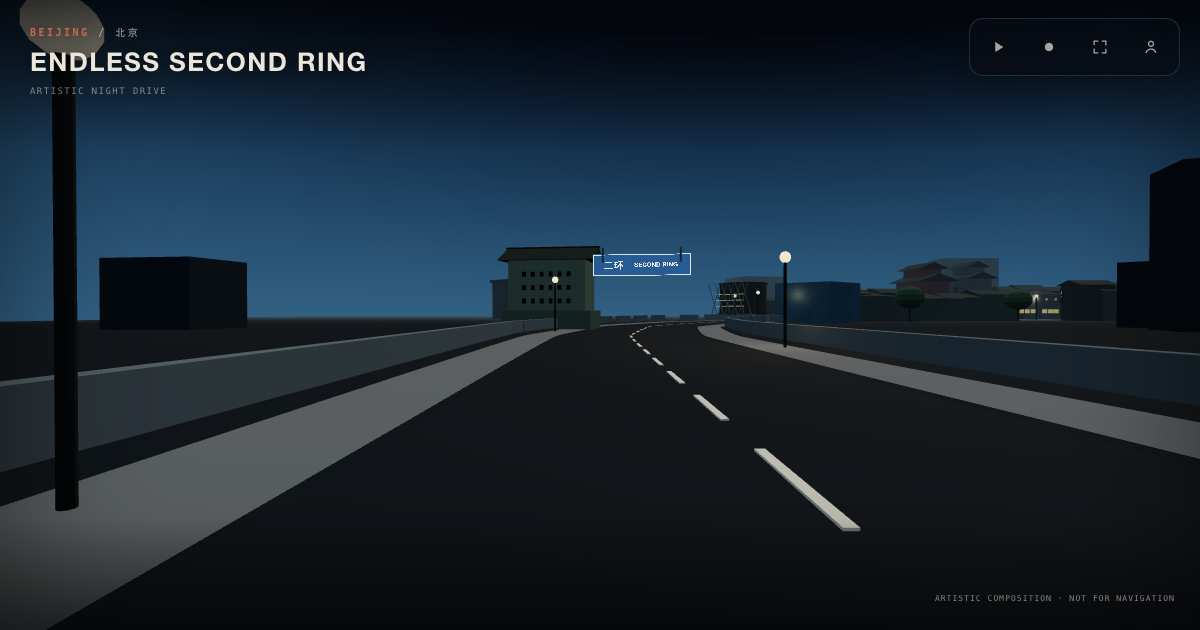
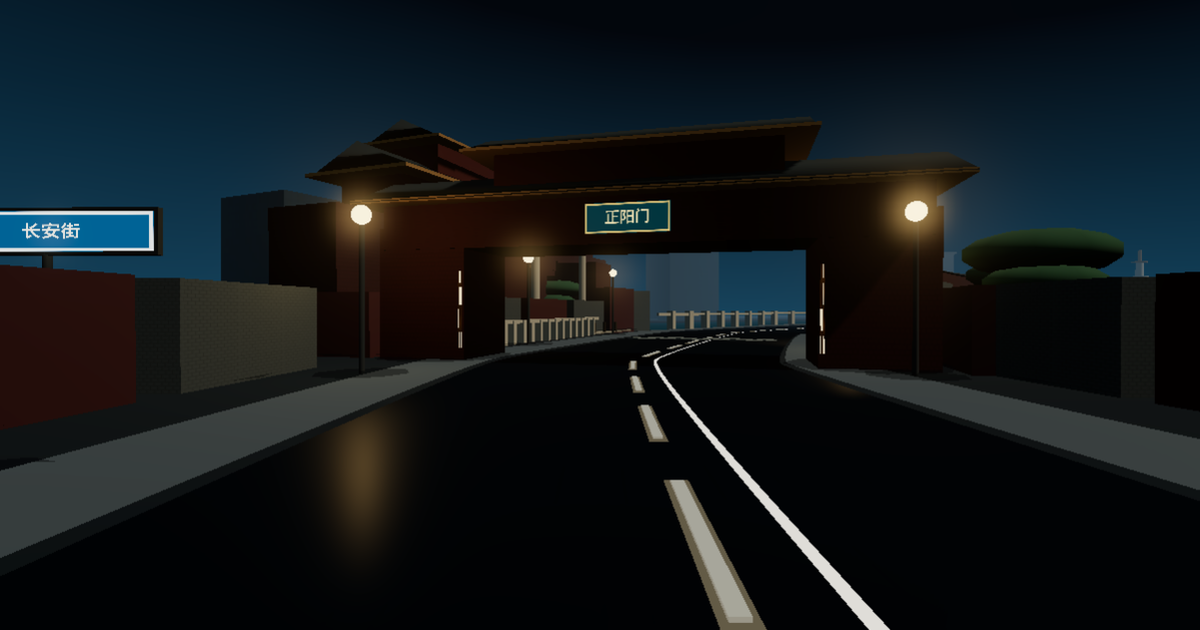
Make the page chrome readable without covering the film.
The work title leads, the loop number stays the eyebrow, and a one-line hint names the control under the pointer. Phones keep the navigation disclaimer beside the buttons. The vignette only shades the title, and the share image is the current gate.

diff --git a/src/styles/main.css b/src/styles/main.css
@@ -95,13 +95,11 @@ canvas {
 }
 
 .ui-root::before {
-  background:
-    linear-gradient(180deg, rgba(3, 5, 8, 0.72) 0, rgba(3, 5, 8, 0) 24%),
-    linear-gradient(0deg, rgba(3, 5, 8, 0.54) 0, rgba(3, 5, 8, 0) 18%);
+  background: linear-gradient(180deg, rgba(3, 5, 8, 0.55) 0, rgba(3, 5, 8, 0) 16%);
 }
 
 .ui-root::after {
-  box-shadow: inset 0 0 12vw rgba(0, 0, 0, 0.56);
+  box-shadow: inset 0 10vh 7vh -8vh rgba(0, 0, 0, 0.42);
 }
 
 .ui-root button,
@@ -137,29 +135,29 @@ canvas {
 }
 
 .ui-eyebrow {
-  color: var(--text);
-  font-size: clamp(23px, 2.1vw, 30px);
-  font-weight: 800;
-  letter-spacing: 0.04em;
-  line-height: 1;
-}
-
-.ui-title {
-  margin-top: 8px;
-  color: rgba(236, 229, 216, 0.76);
-  font-size: clamp(10px, 0.85vw, 12px);
+  color: rgba(236, 229, 216, 0.62);
+  font-size: 11px;
   font-weight: 700;
-  letter-spacing: 0.2em;
+  letter-spacing: 0.18em;
   line-height: 1.2;
 }
 
+.ui-title {
+  margin-top: 6px;
+  color: rgba(236, 229, 216, 0.92);
+  font-size: clamp(18px, 1.7vw, 26px);
+  font-weight: 750;
+  letter-spacing: 0.06em;
+  line-height: 1.15;
+}
+
 .ui-sub {
-  margin-top: 10px;
-  color: rgba(236, 229, 216, 0.68);
-  font-size: 8px;
+  margin-top: 8px;
+  color: rgba(236, 229, 216, 0.72);
+  font-size: 11px;
   font-weight: 600;
-  letter-spacing: 0.11em;
-  line-height: 1.5;
+  letter-spacing: 0.08em;
+  line-height: 1.45;
 }
 
 .ui-actions {
@@ -233,6 +231,30 @@ canvas {
 .ui-icon-btn.recording {
   background: rgba(232, 93, 74, 0.12);
   color: var(--record);
+}
+
+.ui-hint {
+  position: absolute;
+  top: calc(76px + var(--safe-t));
+  right: calc(22px + var(--safe-r));
+  max-width: 240px;
+  margin: 0;
+  color: rgba(236, 229, 216, 0.78);
+  font-family: ui-monospace, "SFMono-Regular", Menlo, Consolas, monospace;
+  font-size: 10px;
+  font-weight: 600;
+  letter-spacing: 0.06em;
+  line-height: 1.4;
+  text-align: right;
+  text-shadow: 0 1px 10px rgba(0, 0, 0, 0.8);
+  opacity: 0;
+  pointer-events: none;
+}
+
+.ui-actions:hover ~ .ui-hint,
+.ui-actions:focus-within ~ .ui-hint,
+.ui-hint.is-visible {
+  opacity: 1;
 }
 
 .ui-footer {
@@ -319,19 +341,21 @@ canvas {
   }
 
   .ui-eyebrow {
-    font-size: clamp(21px, 6.2vw, 25px);
+    font-size: 10px;
+    letter-spacing: 0.14em;
   }
 
   .ui-title {
-    margin-top: 8px;
-    font-size: clamp(9px, 2.8vw, 11px);
-    line-height: 1.2;
+    margin-top: 6px;
+    font-size: clamp(16px, 4.8vw, 20px);
+    letter-spacing: 0.04em;
+    line-height: 1.15;
   }
 
   .ui-sub {
-    margin-top: 9px;
-    font-size: 8px;
-    letter-spacing: 0.08em;
+    margin-top: 7px;
+    font-size: 10px;
+    letter-spacing: 0.06em;
   }
 
   .ui-actions {
@@ -344,14 +368,32 @@ canvas {
   }
 
   .ui-footer {
-    position: fixed;
-    width: 1px;
-    height: 1px;
+    position: absolute;
+    right: auto;
+    bottom: calc(22px + var(--safe-b));
+    left: calc(14px + var(--safe-l));
+    width: auto;
+    max-width: calc(100vw - 210px - var(--safe-l) - var(--safe-r));
+    height: auto;
+    margin: 0;
     padding: 0;
-    margin: -1px;
-    overflow: hidden;
-    clip: rect(0, 0, 0, 0);
-    white-space: nowrap;
+    overflow: visible;
+    clip: auto;
+    color: rgba(236, 229, 216, 0.62);
+    font-size: 8px;
+    letter-spacing: 0.06em;
+    line-height: 1.35;
+    white-space: normal;
+  }
+
+  .ui-hint {
+    top: auto;
+    right: calc(14px + var(--safe-r));
+    bottom: calc(64px + var(--safe-b));
+    left: auto;
+    max-width: min(220px, 58vw);
+    opacity: 1;
+    text-align: right;
   }
 
   .ui-rec {

diff --git a/src/ui/controls.ts b/src/ui/controls.ts
@@ -96,6 +96,8 @@ export class Controls {
         >${ICON.about}</button>
       </div>
 
+      <p class="ui-hint" data-ui-hint aria-hidden="true">Record saves a 48-second film</p>
+
       <p class="ui-footer">ARTISTIC COMPOSITION <span aria-hidden="true">·</span> NOT FOR NAVIGATION</p>
 
       <div class="ui-debug" hidden>
@@ -131,11 +133,20 @@ export class Controls {
     this.recordDescription = this.query('#record-capability');
     this.fullscreenDescription = this.query('#fullscreen-capability');
     this.liveRegion = this.query('[data-ui-live]');
+    const hint = this.query('[data-ui-hint]');
+    const actions = this.query('.ui-actions');
+    const showHint = (button: HTMLButtonElement) => {
+      hint.textContent = button.title.replace(/\s*\([^)]*\)\s*$/, '');
+    };
 
     this.playBtn.addEventListener('click', () => this.callbacks.onTogglePlay());
     this.recordBtn.addEventListener('click', () => this.callbacks.onRecord());
     this.fullscreenBtn.addEventListener('click', () => this.callbacks.onToggleFullscreen());
     this.aboutBtn.addEventListener('click', () => this.callbacks.onAbout());
+    for (const button of actions.querySelectorAll('button')) {
+      button.addEventListener('pointerenter', () => showHint(button));
+      button.addEventListener('focus', () => showHint(button));
+    }
     document.addEventListener('fullscreenchange', () => this.syncFullscreen());
     this.syncFullscreen();
   }
